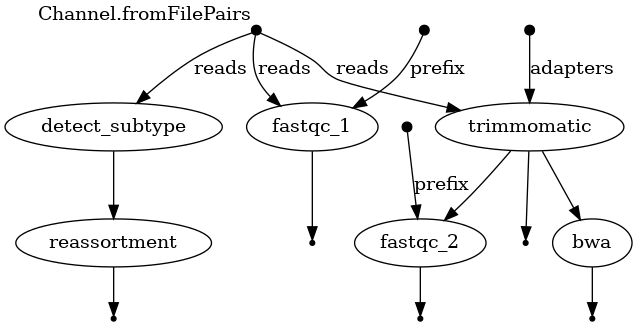
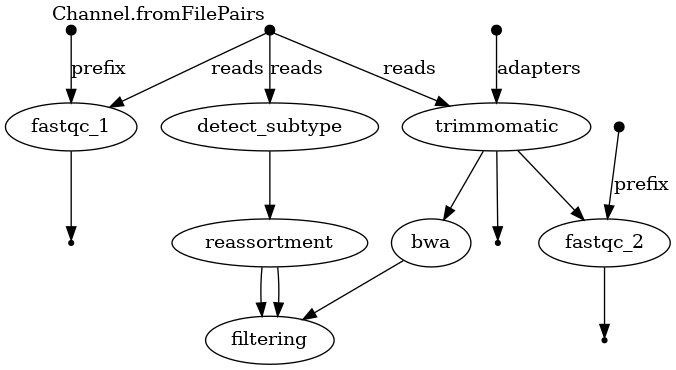
added filtering.nf module for infl pipeline

diff --git a/bin/infl/simple_filter_illumina_INFL.py b/bin/infl/simple_filter_illumina_INFL.py
@@ -1,0 +1,282 @@
+#!/usr/bin/env python3
+
+"""
+Script for filtering and downsampling Illumina data for influenza.
+Initial filtering (proper pair and removing supplementary alignments)
+is handled by samtools. Here, we will focus on additional filtering.
+"""
+
+import sys
+from collections import defaultdict
+
+import numpy as np
+import pysam
+from Bio import SeqIO
+
+
+def read_pair_generator(bam, region_string=None):
+    """
+    Generate read pairs in a BAM file or within a region string.
+    Reads are added to read_dict until a pair is found.
+    https://www.biostars.org/p/306041/
+    """
+    read_dict = defaultdict(lambda: [None, None])
+    for read in bam.fetch(region=region_string):
+        if not read.is_proper_pair or read.is_secondary or read.is_supplementary:
+            continue
+        qname = read.query_name
+        if qname not in read_dict:
+            if read.is_read1:
+                read_dict[qname][0] = read
+            else:
+                read_dict[qname][1] = read
+        else:
+            if read.is_read1:
+                yield read, read_dict[qname][1]
+            else:
+                yield read_dict[qname][0], read
+            del read_dict[qname]
+
+
+def get_empty_amplikon_coverage_in_windows(dlugosci_segmentow, segment_id, szerokość_okna):
+    """
+    Funkcja vma na celu policzenie sredniego pokrycia w oknach dla segmentu. Funkcja zwraca slownik gdzie kluczami
+    jest zakres okna np 0_99, 100_200 itd .... Warotoscia jest 0 ze wzgledu na specyfike danych grypowych,
+    :param bam_file:
+    :param segment_id:
+    :return:
+    """
+    # Tworzymy okna i slownik ktory trzyma srednie pokrycie
+    initial_split = list(range(0, dlugosci_segmentow[segment_id] + 1, szerokość_okna))
+    slownik_pokrycia = {}
+    for i in range(len(initial_split)):
+        try:
+            slownik_pokrycia[f"{initial_split[i]}_{initial_split[i + 1] - 1}"] = 0
+        except IndexError:
+            # jestesmy na ostatnim elemencie listy
+            # poprawiamy ostatnia mozliwa granice tak by nie konczyla sie na "wartosc -1" a na wartosc
+            # slownik_pokrycia[f"{initial_split[i - 1]}_{initial_split[i]}"] = 0
+            del (slownik_pokrycia[f"{initial_split[i - 1]}_{initial_split[i] - 1}"])
+            slownik_pokrycia[f"{initial_split[i - 1]}_{dlugosci_segmentow[segment_id] + 1}"] = 0
+    return slownik_pokrycia
+
+
+def read_genome_boundaries(fasta):
+    """
+    Wprawdzie w influenza tez korzystamy z primerow ale sa one wspolne dla wszystkich
+    segmentow i usuwane wczesniej przez cutadapt-a. Na tym etapie chcemy po porstu dostac info jakie koordynaty
+    maja segmenty np "chr1_PA1" ma [0,2000] TO JEST PRZYKLAD NIE RZECZYWISTE WARTOSCI
+    :param fasta: sciezka do pliku fasta z genmem
+    :return:
+    """
+    dlugosci_segmentow = {}
+    genome = sequences = SeqIO.parse(fasta, "fasta")
+    for segment in genome:
+        dlugosci_segmentow[segment.id] = len(segment.seq)
+    return dlugosci_segmentow
+
+
+def read_amplicon_scheme_influenza(bed):
+    """
+    Dla grypy kazdy segment jest pojedycznym amplikonem ale do hierarchicznego
+    wybierania odczytow zaczynamy od odczytow obejmujacych caly segment, potem schodzimy nizej
+    :param bed:
+    :return:
+    """
+    slownik_amplikonow_outer = {}  # slowanik z zewnetrznymi granicami amplikonu (czyl 5' primer left i 3' right)
+    slownik_amplikonow_inner = {}  # to samo ale granice wewnetrzne (3' left i 5' right)
+    slownik_amplikonow_uzycie = {}  # slownik z iloscia odczytow mapujacych sie wewnatrz danego amplikonu
+    slownik_amplikonow_uzycie_left = {}  # slownik z iloscia odczytow mapujacych sie na primer left danego amplikonu
+    slownik_amplikonow_uzycie_right = {}  # slownik z iloscia odczytow mapujacych sie na primer right danego amplikonu
+
+    # kazdy segment genomu grypy to jeden segment, w celu ulatwienia parsowanai
+    # amplikony maja nazwe {segmentID}_{kierunek}
+    # nie ma laternatywnych primerow, zachodzacych itd ... to nie SARS
+    # chr1_PB2        0       12      chr1_LEFT       1       +
+    # chr1_PB2        2328    2341    chr1_RIGHT      1       -
+    # chr2_PB1        0       12      chr2_LEFT       1       +
+
+    with open(bed) as f:
+        for line in f:
+            line = line.split()
+            segment = line[0]
+            kierunek = line[3].split('_')[1]
+            if segment not in slownik_amplikonow_outer.keys():
+                slownik_amplikonow_outer[segment] = {}  # Ten slownik trzyma zewnetrzne granice amplikonow
+                slownik_amplikonow_inner[segment] = {}  # Ten slownik trzyma wewnetrzne granice amplikonow
+
+                slownik_amplikonow_outer[segment]['LEFT'] = 0
+                slownik_amplikonow_outer[segment]['RIGHT'] = 0
+
+                slownik_amplikonow_inner[segment]['LEFT'] = 0
+                slownik_amplikonow_inner[segment]['RIGHT'] = 0
+
+                slownik_amplikonow_uzycie[segment] = 0
+                slownik_amplikonow_uzycie_left[segment] = 0
+                slownik_amplikonow_uzycie_right[segment] = 0
+
+            if 'LEFT' == kierunek:
+                slownik_amplikonow_outer[segment]['LEFT'] = int(line[1])
+                slownik_amplikonow_inner[segment]['LEFT'] = int(line[2])
+            elif 'RIGHT' == kierunek:
+                slownik_amplikonow_outer[segment]['RIGHT'] = int(line[2])
+                slownik_amplikonow_inner[segment]['RIGHT'] = int(line[1])
+            else:
+                print('Nie rozpoznany kierunek')
+
+    return slownik_amplikonow_outer, slownik_amplikonow_inner, \
+        slownik_amplikonow_uzycie, slownik_amplikonow_uzycie_left, slownik_amplikonow_uzycie_right
+
+
+def filter_reads(initial_bam, final_bam_forward, final_bam_reverse, statystyki, min_length=90, mapq=30):
+    all_reads = pysam.AlignmentFile(initial_bam, "rb")
+    forward_reads = pysam.AlignmentFile(final_bam_forward, "wb", template=all_reads)
+    reverse_reads = pysam.AlignmentFile(final_bam_reverse, "wb", template=all_reads)
+
+    for pair1, pair2 in read_pair_generator(all_reads):
+
+        pair1.reference_end - pair1.reference_start
+
+        done = True
+        if pair1.rlen < min_length or pair2.rlen < min_length:
+            done = False
+            statystyki.write(
+                f"{pair1.qname}\t{pair1.reference_name}\t"
+                f"{pair1.reference_start}\t{pair1.reference_end}\t"
+                f"{pair2.reference_start}\t{pair2.reference_end}\tToo short\n")
+
+        elif pair1.mapq < mapq or pair2.mapq < mapq:
+            done = False
+            statystyki.write(
+                f"{pair1.qname}\t{pair1.reference_name}\t"
+                f"{pair1.reference_start}\t{pair1.reference_end}\t"
+                f"{pair2.reference_start}\t{pair2.reference_end}\tPoor mapq\n")
+        elif (pair1.reference_end - pair1.reference_start) < (0.6 * pair1.rlen) or (pair2.reference_end - pair2.reference_start) < (0.6 * pair2.rlen):
+            # jedne z odczytow pary ma alignment z genomem referencyjnym obejmujacy mniej niz 60% dlugosci danego odczytu
+            done = False
+            statystyki.write(
+                f"{pair1.qname}\t{pair1.reference_name}\t"
+                f"{pair1.reference_start}\t{pair1.reference_end}\t"
+                f"{pair2.reference_start}\t{pair2.reference_end}\tShort alignment\n")
+
+        if pair1.is_forward and done:
+            forward_reads.write(pair1)
+            reverse_reads.write(pair2)
+            statystyki.write(
+                f"{pair1.qname}\t{pair1.reference_name}\t"
+                f"{pair1.reference_start}\t{pair1.reference_end}\t"
+                f"{pair2.reference_start}\t{pair2.reference_end}\tSOK\n")
+        elif pair2.is_forward and done:
+            forward_reads.write(pair2)
+            reverse_reads.write(pair1)
+            statystyki.write(
+                f"{pair1.qname}\t{pair1.reference_name}\t"
+                f"{pair1.reference_start}\t{pair1.reference_end}\t"
+                f"{pair2.reference_start}\t{pair2.reference_end}\tSOK\n")
+
+
+if __name__ == '__main__':
+    all_read = sys.argv[1]  # posortowany output z minimap-a
+    bed = sys.argv[2]  # plik bed z primerami
+    cap = int(sys.argv[3])  # cap na ilosc odczytow mapujacych sie na konkretny amplikon
+    min_mapq = int(sys.argv[4])
+    min_length = int(sys.argv[5])  # cap na smieci czyli ready nie obejmujace dwoch primerow
+    reference_genome = sys.argv[6]
+    statystyki = open('Statystyki.txt', 'w')
+
+    # all_reads = pysam.AlignmentFile(initial_bam, "rb", require_index=False)
+
+    # 0 Wczytanie informacji o dlugosci segmentow
+    dlugosci_segmentow = read_genome_boundaries(reference_genome)
+
+    # 1 Slownik z ampikonami i uzyciami amplkionow
+    slownik_amplikonow_outer, slownik_amplikonow_inner, \
+        slownik_amplikonow_uzycie, slownik_amplikonow_uzycie_left, \
+        slownik_amplikonow_uzycie_right = read_amplicon_scheme_influenza(bed=bed)
+
+    # 2 Usuwanie odczytow za krotkich lub slabo mapujacych sie
+
+    filter_reads(initial_bam=all_read,
+                 final_bam_forward='all_reads_forward_filtered.bam',
+                 final_bam_reverse='all_reads_reverse_filtered.bam',
+                 statystyki=statystyki,
+                 min_length=min_length,
+                 mapq=min_mapq)
+
+    # profilaktycznie randomizacja rozlozenia odczytow
+    pysam.collate('-o', "all_reads_forward_filtered_randomized.bam", "all_reads_forward_filtered.bam")
+
+    window_smoothing_bam = []
+    with open('Statystyki_smieci.txt', 'w') as f:
+        for segment in dlugosci_segmentow:
+            slownik_slave = {}
+            segment_pokrycie = get_empty_amplikon_coverage_in_windows(dlugosci_segmentow=dlugosci_segmentow,
+                                                                      segment_id=segment,
+                                                                      szerokość_okna=100)
+
+            indeksy_slabych_pokryc = np.where(np.array(list(segment_pokrycie.values())) < (cap))[0].tolist()
+            zakresy_zlabych_okien = [[int(klucz.split("_")[0]), int(klucz.split("_")[1])] for klucz in segment_pokrycie if segment_pokrycie[klucz] < (cap)]
+            if len(zakresy_zlabych_okien) == 0:
+                # nie analizuj dobrych segemtow
+                continue
+
+            all_reads = pysam.AlignmentFile("all_reads_forward_filtered_randomized.bam", "rb", require_index=False)
+            pass_reads = pysam.AlignmentFile(f'{segment}_ekstra.bam', "wb", template=all_reads)
+
+            i = 0
+            for read in all_reads:
+                # print(read.reference_name, read.qname)
+                if read.reference_name != segment:
+                    continue
+
+                # Niech wyrownanie pokrycia idzie po read ktory jest froward
+                # read 2 jest tylko slavem ktory na koniec zostanie do pliku
+
+                reference_start = read.reference_start
+                reference_end = read.reference_end
+                reference_name = read.reference_name
+                moj_odczyt_zakres = set(range(reference_start, reference_end))
+                done = False
+                # patrzymy na jakie sa pokrycia w oknach ktore obejmuje read jesli mapuje sie na slabe okno
+                # done zamieniamy na True, i uzpelniamy pokrycia w slowniku
+                if i % 2 != 0:
+                    zakresy_zlabych_okien.reverse()
+
+                for poor_window_start, poor_window_end in zakresy_zlabych_okien:
+                    okno_zakres = set(range(poor_window_start, poor_window_end))
+                    common_positions = len(okno_zakres.intersection(moj_odczyt_zakres)) / float(len(okno_zakres))
+                    # print(read.qnamem, read.reference_name, reference_start, reference_end, common_positions)
+                    if common_positions > 0:
+                        f.write(f'Odczyt {read.qname} pochodzi z segmentu {segment} mapuje sie na {reference_start} do {reference_end} mapuje sie na okno od {poor_window_start} do {poor_window_end} i obejmuje jego {common_positions} i trafia do output\n')
+                        # odczyt mapuje sine na oknx`o o slabym pokryciu
+                        if not done:
+                            done = True
+                        # uzupelniamy slownik pokrycia
+                        segment_pokrycie[f'{poor_window_start}_{poor_window_end}'] += common_positions
+
+                # updatujemy co jest slabym oknem aby niepotrzebnie nie leciec petla przy kolejnym read
+                zakresy_zlabych_okien = [[int(klucz.split("_")[0]), int(klucz.split("_")[1])] for klucz in segment_pokrycie
+                                         if segment_pokrycie[klucz] < (cap)]
+                if done:
+                    pass_reads.write(read)
+                    slownik_slave[read.qname] = 0
+                else:
+                    f.write(
+                        f'Odczyt {read.qname} pochodzi z segmentu {segment} zakres mapowan to {reference_start} {reference_end} nie mapuje sie na okno o niskim uzyiu i nie trafia do output\n')
+                i += 1
+
+            # dodajem na koniec sparowany odczyt dla wybranych odczytow
+            all_reads = pysam.AlignmentFile("all_reads_reverse_filtered.bam", "rb", require_index=False)
+            for read in all_reads:
+                if read.qname in slownik_slave.keys():
+                    pass_reads.write(read)
+
+            pass_reads.close()
+            pysam.sort('-o', f'{segment}_ekstra_sorted.bam', f'{segment}_ekstra.bam')
+            pysam.index(f'{segment}_ekstra_sorted.bam')
+            window_smoothing_bam.append(f'{segment}_ekstra_sorted.bam')
+    # laczenie semgentow
+
+    pysam.merge('to_clip.bam', *window_smoothing_bam)
+    pysam.sort('-o', 'to_clip_sorted.bam', 'to_clip.bam')
+    pysam.index('to_clip_sorted.bam')
